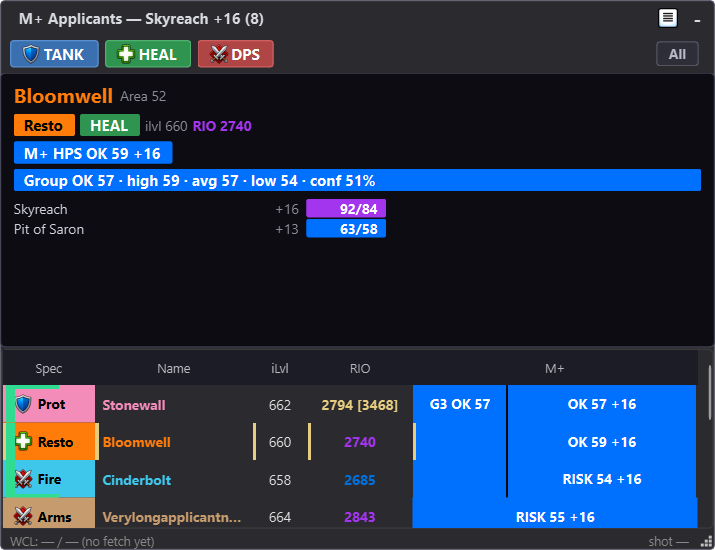
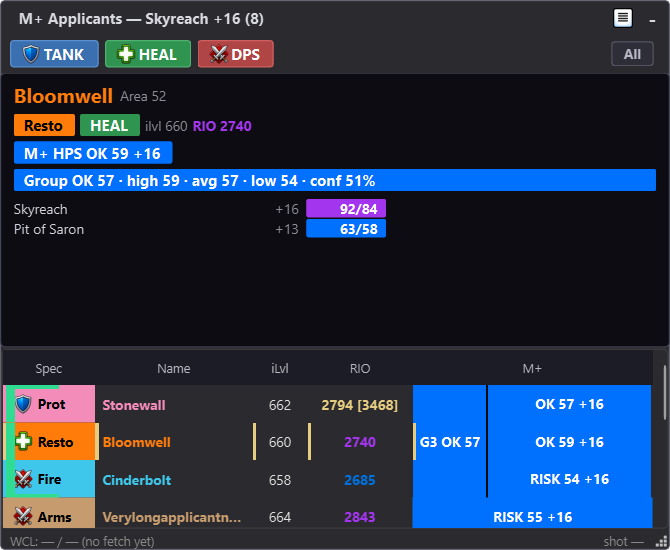
fix(ui): compact and center group M+ lane

diff --git a/src/applicant_scout/overlay.py b/src/applicant_scout/overlay.py
@@ -113,13 +113,16 @@ DUNGEON_NAME_WIDTH = 188
 DUNGEON_KEY_WIDTH = 34
 DUNGEON_METRIC_WIDTH = 64
 COL_SPEC, COL_NAME, COL_ILVL, COL_RIO, COL_N, COL_H, COL_M, COL_MPLUS = range(8)
+WINDOW_CHROME_WIDTH = DEFAULT_WINDOW_WIDTH - sum(COLUMN_WIDTHS)
+MIN_VISIBLE_WINDOW_WIDTH = 420
+MPLUS_GROUP_COLUMN_WIDTH = 188
 MPLUS_PACKAGE_TEXT_ROLE = Qt.ItemDataRole.UserRole + 20
 MPLUS_PACKAGE_BG_ROLE = Qt.ItemDataRole.UserRole + 21
 MPLUS_INDIVIDUAL_TEXT_ROLE = Qt.ItemDataRole.UserRole + 22
 MPLUS_INDIVIDUAL_FG_ROLE = Qt.ItemDataRole.UserRole + 23
 MPLUS_INDIVIDUAL_BG_ROLE = Qt.ItemDataRole.UserRole + 24
-MPLUS_GROUP_LANE_MAX_WIDTH = 96
-MPLUS_GROUP_LANE_MIN_WIDTH = 46
+MPLUS_GROUP_LANE_MAX_WIDTH = 72
+MPLUS_GROUP_LANE_MIN_WIDTH = 42
 MPLUS_INDIVIDUAL_LANE_MIN_WIDTH = 56
 
 
@@ -241,6 +244,8 @@ class _GroupMarker:
     colour: str
     first_visible: bool
     last_visible: bool
+    position: int
+    size: int
 
 
 def _fetch_identity_for_applicant(
@@ -478,8 +483,40 @@ def _build_group_markers(
                 colour=colour,
                 first_visible=position == 1,
                 last_visible=position == size,
+                position=position,
+                size=size,
             )
     return markers
+
+
+def _minimum_window_width_for_metrics(
+    metric_preferences: MetricPreferences,
+    *,
+    name_width: int = COLUMN_WIDTHS[COL_NAME],
+) -> int:
+    mplus_width = (
+        MPLUS_GROUP_COLUMN_WIDTH
+        if metric_preferences.mplus and not metric_preferences.raid_enabled
+        else COLUMN_WIDTHS[COL_MPLUS]
+    )
+    width = (
+        COLUMN_WIDTHS[COL_SPEC]
+        + max(COLUMN_WIDTHS[COL_NAME], name_width)
+        + COLUMN_WIDTHS[COL_ILVL]
+        + COLUMN_WIDTHS[COL_RIO]
+        + (COLUMN_WIDTHS[COL_N] if metric_preferences.raid_normal else 0)
+        + (COLUMN_WIDTHS[COL_H] if metric_preferences.raid_heroic else 0)
+        + (COLUMN_WIDTHS[COL_M] if metric_preferences.raid_mythic else 0)
+        + (mplus_width if metric_preferences.mplus else 0)
+        + WINDOW_CHROME_WIDTH
+    )
+    return max(MIN_VISIBLE_WINDOW_WIDTH, width)
+
+
+def _should_draw_group_package_text(group_marker: _GroupMarker | None) -> bool:
+    if group_marker is None:
+        return True
+    return group_marker.position == (group_marker.size // 2) + 1
 
 
 class _HoverHighlightDelegate(QStyledItemDelegate):
@@ -593,12 +630,18 @@ class _HoverHighlightDelegate(QStyledItemDelegate):
         self.initStyleOption(opt, index)
         rect = opt.rect
         width = max(1, rect.width())
+        package_text = str(index.data(MPLUS_PACKAGE_TEXT_ROLE) or "")
+        package_bg = str(index.data(MPLUS_PACKAGE_BG_ROLE) or "#2a2a33")
+        individual_text = str(index.data(MPLUS_INDIVIDUAL_TEXT_ROLE) or "")
+        individual_fg = index.data(MPLUS_INDIVIDUAL_FG_ROLE)
+        individual_bg = index.data(MPLUS_INDIVIDUAL_BG_ROLE)
+        package_text_width = opt.fontMetrics.horizontalAdvance(package_text) + 12
         if width <= MPLUS_GROUP_LANE_MIN_WIDTH + 1:
             package_width = max(1, width // 2)
         else:
             package_width = min(
                 MPLUS_GROUP_LANE_MAX_WIDTH,
-                max(MPLUS_GROUP_LANE_MIN_WIDTH, width // 3),
+                max(MPLUS_GROUP_LANE_MIN_WIDTH, package_text_width),
             )
             if width - package_width < MPLUS_INDIVIDUAL_LANE_MIN_WIDTH:
                 package_width = max(
@@ -616,12 +659,6 @@ class _HoverHighlightDelegate(QStyledItemDelegate):
             rect.height(),
         )
 
-        package_text = str(index.data(MPLUS_PACKAGE_TEXT_ROLE) or "")
-        package_bg = str(index.data(MPLUS_PACKAGE_BG_ROLE) or "#2a2a33")
-        individual_text = str(index.data(MPLUS_INDIVIDUAL_TEXT_ROLE) or "")
-        individual_fg = index.data(MPLUS_INDIVIDUAL_FG_ROLE)
-        individual_bg = index.data(MPLUS_INDIVIDUAL_BG_ROLE)
-
         painter.save()
         painter.setFont(opt.font)
         painter.fillRect(package_rect, QColor(package_bg))
@@ -635,15 +672,23 @@ class _HoverHighlightDelegate(QStyledItemDelegate):
                 individual_fg if isinstance(individual_fg, str) else "#e0e0e0"
             )
 
-        if group_marker is None or group_marker.first_visible:
+        if _should_draw_group_package_text(group_marker):
+            text_rect = package_rect
+            if group_marker is not None and group_marker.size % 2 == 0:
+                text_rect = QRect(
+                    package_rect.left(),
+                    package_rect.top() - package_rect.height(),
+                    package_rect.width(),
+                    package_rect.height() * 2,
+                )
             painter.setPen(QColor(_text_colour_for_bg(package_bg)))
             painter.drawText(
-                package_rect.adjusted(4, 0, -4, 0),
+                text_rect.adjusted(4, 0, -4, 0),
                 Qt.AlignmentFlag.AlignCenter,
                 opt.fontMetrics.elidedText(
                     package_text,
                     Qt.TextElideMode.ElideRight,
-                    max(1, package_rect.width() - 8),
+                    max(1, text_rect.width() - 8),
                 ),
             )
         painter.setPen(QColor(individual_text_colour))
@@ -1304,10 +1349,9 @@ class OverlayWindow(QMainWindow):
         )
         self.setAttribute(Qt.WidgetAttribute.WA_TranslucentBackground, True)
         self.setAttribute(Qt.WidgetAttribute.WA_ShowWithoutActivating, True)
-        # Compact minimum covers sum(COLUMN_WIDTHS)=552 plus the scrollbar
-        # budget. The M+ column stretches to consume any remaining viewport
-        # width so the right edge never becomes a transparent dead strip.
-        self.setMinimumSize(QSize(DEFAULT_WINDOW_WIDTH, 370))
+        self.setMinimumSize(
+            QSize(_minimum_window_width_for_metrics(metric_preferences), 370)
+        )
 
         # Central container with QSS-stylable background
         container = QWidget()
@@ -1421,8 +1465,8 @@ class OverlayWindow(QMainWindow):
                 h.setSectionResizeMode(col, QHeaderView.ResizeMode.Interactive)
         h.setSectionResizeMode(COL_MPLUS, QHeaderView.ResizeMode.Stretch)
         h.setStretchLastSection(True)
-        self._apply_metric_column_visibility()
         self._max_name_width_px = COLUMN_WIDTHS[COL_NAME]
+        self._apply_metric_column_visibility()
         layout.addWidget(self._table, stretch=1)
 
         # Bottom row: status label + size grip
@@ -1481,8 +1525,14 @@ class OverlayWindow(QMainWindow):
         # from a previous multi-monitor session don't render the window invisibly
         # off-screen. Picks first screen whose geometry intersects the saved
         # rect; falls back to centering on primary screen if none match.
+        has_saved_geometry = (self._config_dir / "window.json").exists()
         geo = _normalize_loaded_geometry(load_geometry(self._config_dir))
         x, y, w, h = _clamp_geometry_to_screen(geo.x, geo.y, geo.w, geo.h)
+        min_width = self.minimumWidth()
+        if not has_saved_geometry and geo.w == DEFAULT_WINDOW_WIDTH:
+            w = min_width
+        else:
+            w = max(w, min_width)
         if (x, y) != (geo.x, geo.y):
             _log.info(
                 "Window geometry off-screen (%d,%d) → clamped to (%d,%d)",
@@ -2103,6 +2153,7 @@ class OverlayWindow(QMainWindow):
         if target > self._max_name_width_px:
             self._max_name_width_px = target
             self._table.setColumnWidth(COL_NAME, target)
+            self._apply_metric_minimum_width()
 
     def _apply_metric_column_visibility(self) -> None:
         prefs = self._metric_preferences
@@ -2110,6 +2161,18 @@ class OverlayWindow(QMainWindow):
         self._table.setColumnHidden(COL_H, not prefs.raid_heroic)
         self._table.setColumnHidden(COL_M, not prefs.raid_mythic)
         self._table.setColumnHidden(COL_MPLUS, not prefs.mplus)
+        self._apply_metric_minimum_width()
+
+    def _apply_metric_minimum_width(self, *, old_min_width: int | None = None) -> None:
+        new_min_width = _minimum_window_width_for_metrics(
+            self._metric_preferences,
+            name_width=self._max_name_width_px,
+        )
+        self.setMinimumWidth(new_min_width)
+        if self.width() < new_min_width:
+            self.resize(new_min_width, self.height())
+        elif old_min_width is not None and self.width() <= old_min_width + 1:
+            self.resize(new_min_width, self.height())
 
     def apply_metric_preferences(
         self,
@@ -2117,10 +2180,12 @@ class OverlayWindow(QMainWindow):
         *,
         refetch_missing: bool = True,
     ) -> None:
+        old_min_width = self.minimumWidth()
         self._metric_preferences = metric_preferences
         self._wcl_client.metric_preferences = metric_preferences
         self._panel.set_metric_preferences(metric_preferences)
         self._apply_metric_column_visibility()
+        self._apply_metric_minimum_width(old_min_width=old_min_width)
         for applicant in self._state.applicants.values():
             if not metric_preferences.any_enabled:
                 applicant.clear_wcl_data(fetch_status="ready")

diff --git a/tests/test_info_panel_widget.py b/tests/test_info_panel_widget.py
@@ -25,7 +25,7 @@ from applicant_scout.overlay import (
     ApplicantInfoPanel,
     OverlayWindow,
 )
-from applicant_scout.metric_preferences import MetricPreferences
+from applicant_scout.metric_preferences import DEFAULT_METRIC_PREFERENCES, MetricPreferences
 from applicant_scout.scoring import PackageFit
 from applicant_scout.state import DEFAULT_WINDOW_WIDTH, AppState, Applicant, Listing
 from applicant_scout.wcl import CharacterCache, WCLAuth, WCLClient
@@ -323,7 +323,13 @@ def test_overlay_window_minimum_size_matches_compact_contract(qtbot, tmp_path):
     auth = WCLAuth("client", "secret", tmp_path)
     client = WCLClient(auth)
     cache = CharacterCache(tmp_path)
-    window = OverlayWindow(AppState(), client, cache, tmp_path)
+    window = OverlayWindow(
+        AppState(),
+        client,
+        cache,
+        tmp_path,
+        metric_preferences=MetricPreferences(),
+    )
     qtbot.addWidget(window)
 
     try:
@@ -471,6 +477,27 @@ def test_overlay_panel_uses_group_package_fit_for_any_member(qtbot, tmp_path):
 
         assert window._panel._package_label.text().startswith("Group ")
         assert not window._panel._package_label.isHidden()
+    finally:
+        client.close()
+
+
+def test_overlay_window_mplus_only_uses_narrower_minimum_width(qtbot, tmp_path):
+    auth = WCLAuth("client", "secret", tmp_path)
+    client = WCLClient(auth, metric_preferences=DEFAULT_METRIC_PREFERENCES)
+    cache = CharacterCache(tmp_path)
+    window = OverlayWindow(
+        AppState(),
+        client,
+        cache,
+        tmp_path,
+        metric_preferences=DEFAULT_METRIC_PREFERENCES,
+    )
+    qtbot.addWidget(window)
+
+    try:
+        assert window.minimumSize().width() < DEFAULT_WINDOW_WIDTH
+        assert window.geometry().width() == window.minimumSize().width()
+        assert window.minimumSize().height() == 370
     finally:
         client.close()
 

diff --git a/scripts/overlay_visual_fixture.py b/scripts/overlay_visual_fixture.py
@@ -5,13 +5,7 @@ from __future__ import annotations
 from dataclasses import replace
 from typing import TYPE_CHECKING
 
-from applicant_scout.state import (
-    DEFAULT_WINDOW_HEIGHT,
-    DEFAULT_WINDOW_WIDTH,
-    AppState,
-    Applicant,
-    Listing,
-)
+from applicant_scout.state import DEFAULT_WINDOW_HEIGHT, AppState, Applicant, Listing
 
 if TYPE_CHECKING:
     from applicant_scout.overlay import OverlayWindow
@@ -201,7 +195,7 @@ def build_overlay_visual_state() -> AppState:
 
 
 def prepare_overlay_visual_window(window: OverlayWindow) -> None:
-    window.resize(DEFAULT_WINDOW_WIDTH, DEFAULT_WINDOW_HEIGHT)
+    window.resize(window.minimumWidth(), DEFAULT_WINDOW_HEIGHT)
     window._refresh_table()
     window._update_title()
     # Fixture stability: real overlay hover intentionally wins over pin, but

diff --git a/tests/test_overlay_sort.py b/tests/test_overlay_sort.py
@@ -61,10 +61,16 @@ def test_build_group_markers_adds_caps_for_visible_groups():
     assert markers[0].colour == group_id_colour("10")
     assert markers[0].first_visible
     assert not markers[0].last_visible
+    assert markers[0].position == 1
+    assert markers[0].size == 2
     assert markers[1].last_visible
+    assert markers[1].position == 2
+    assert markers[1].size == 2
     assert markers[4].first_visible
     assert not markers[5].first_visible
     assert not markers[5].last_visible
+    assert markers[5].position == 2
+    assert markers[5].size == 3
     assert markers[6].last_visible
 
 